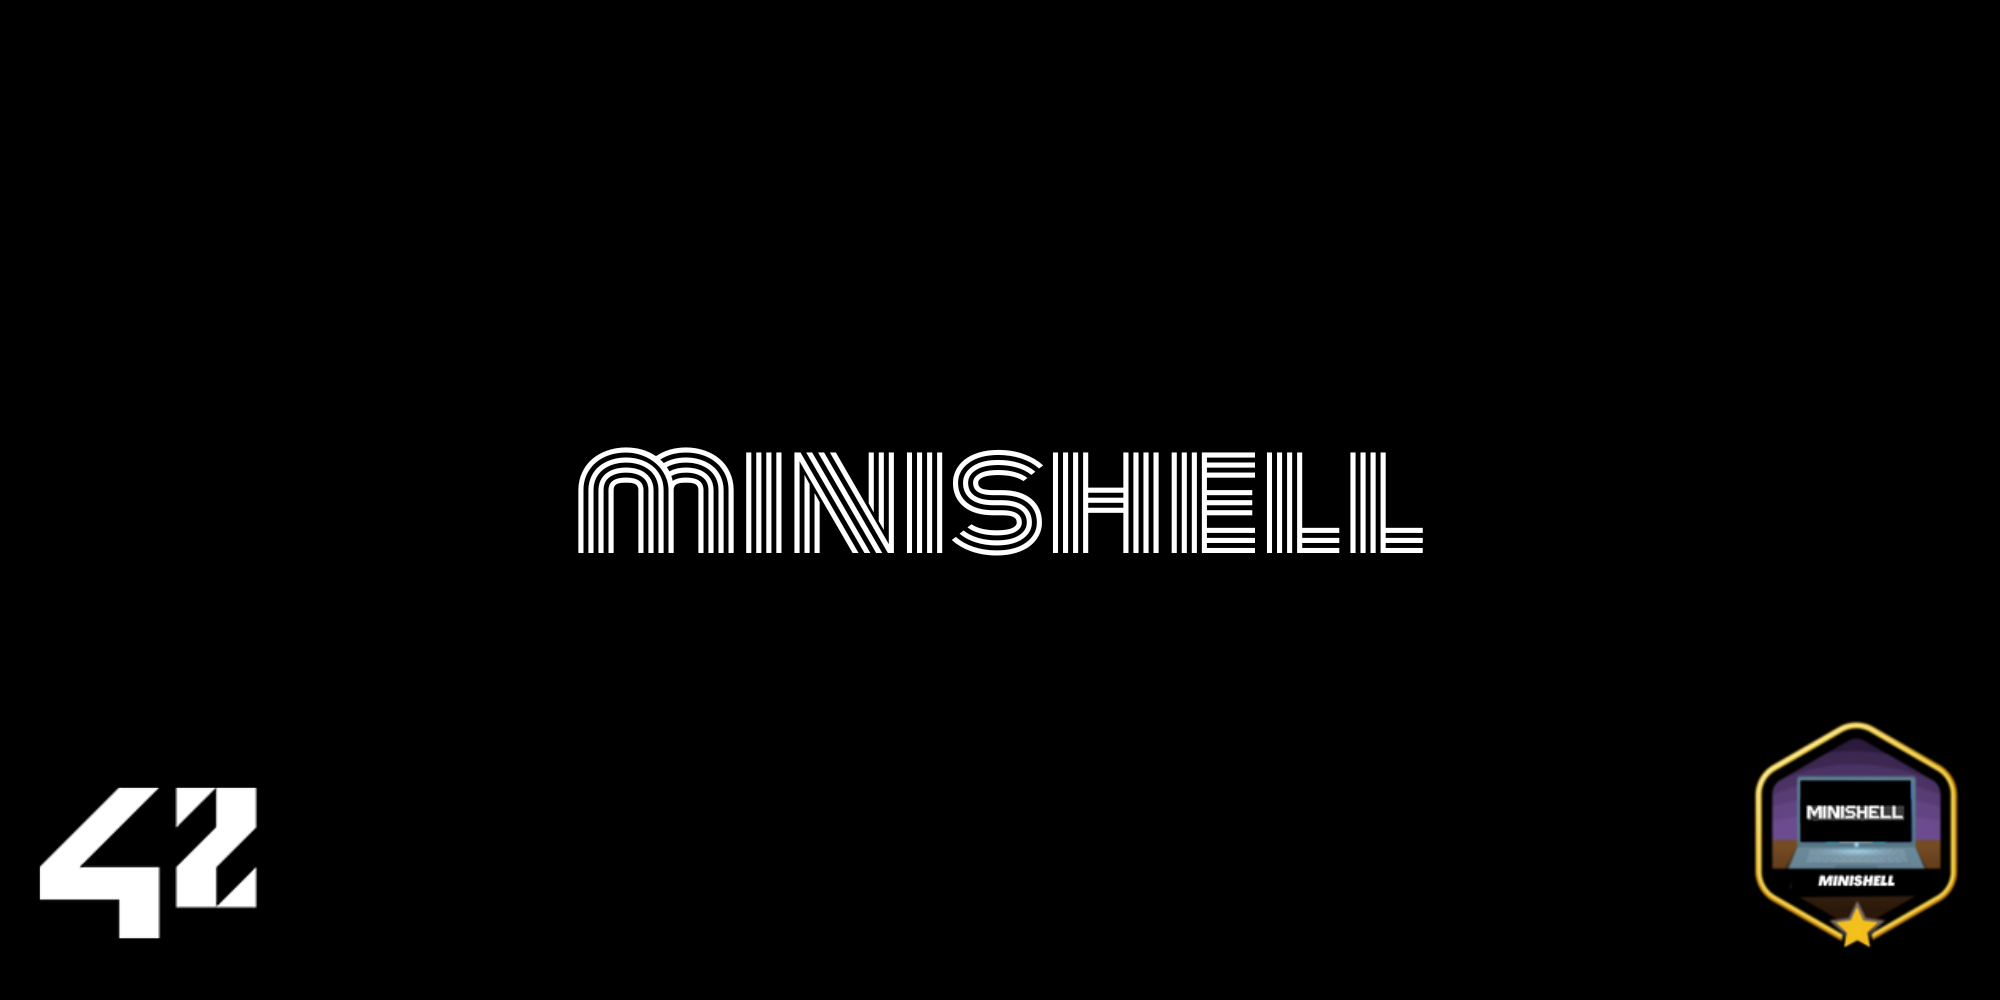
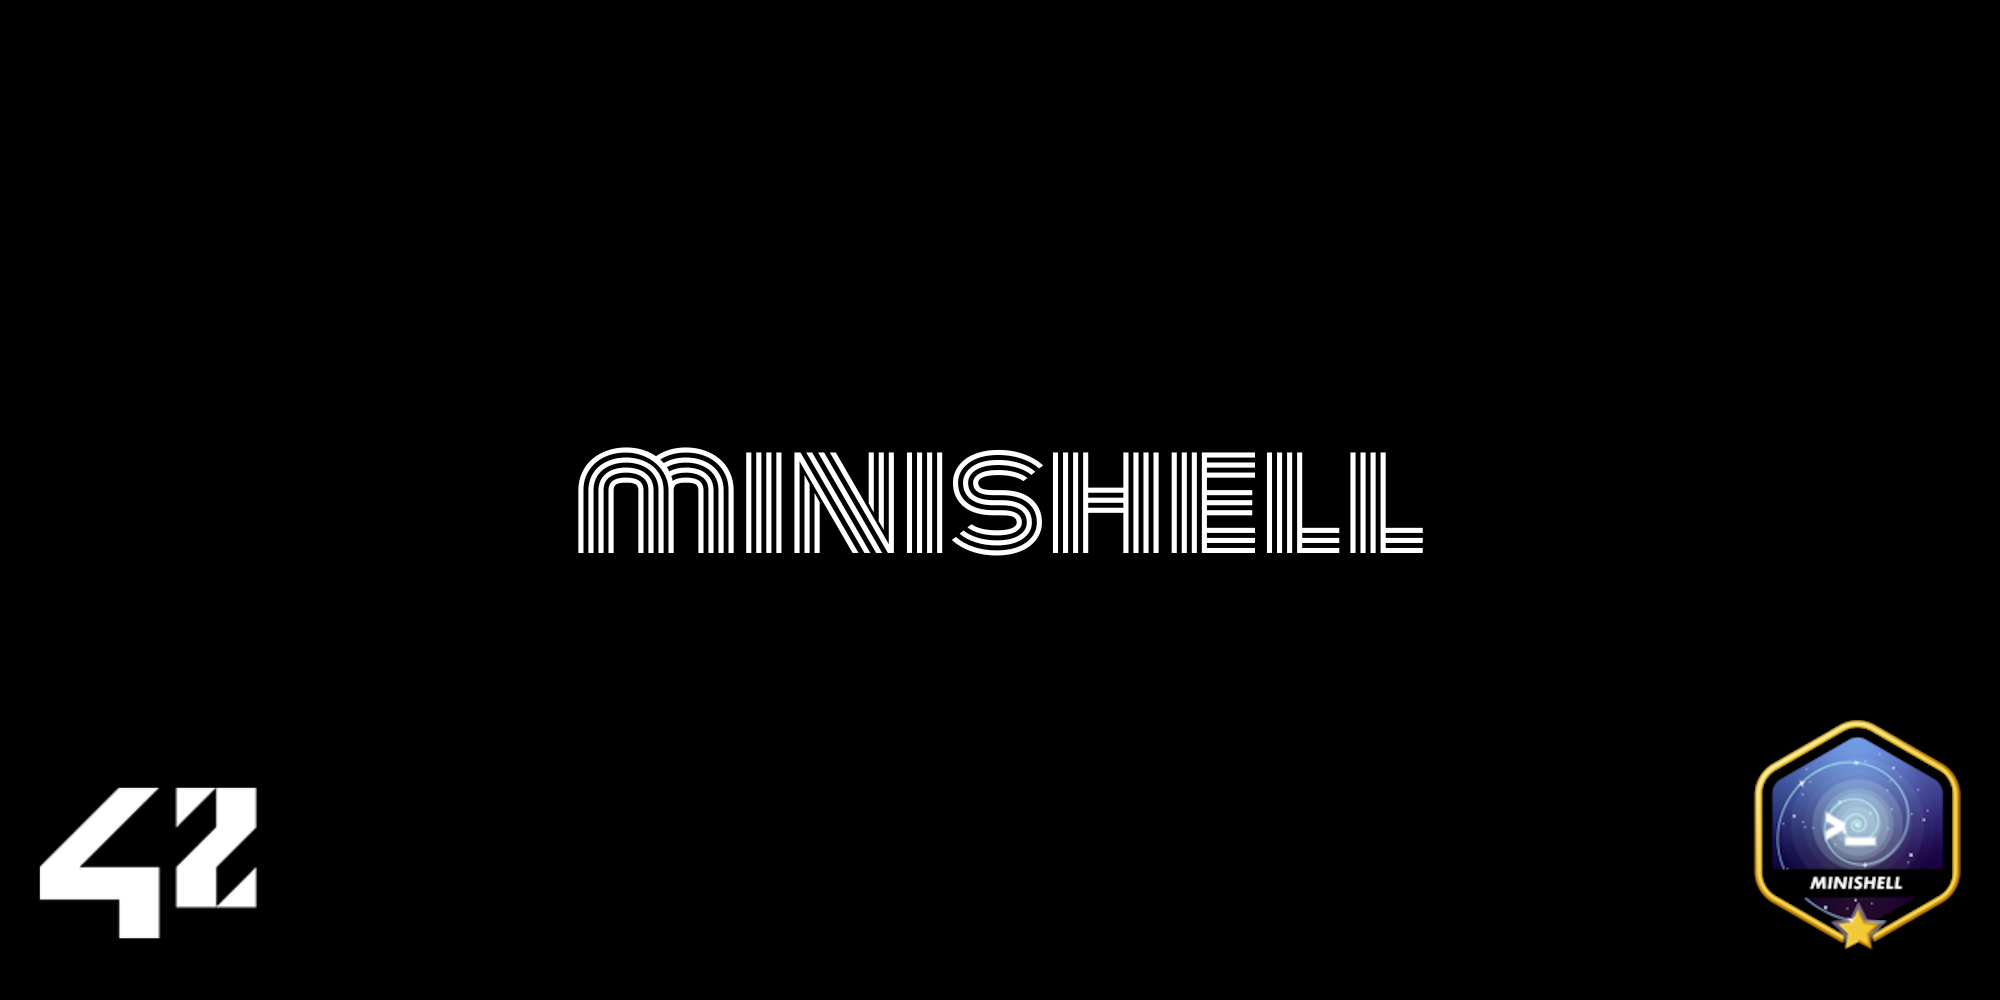
Added missing images

Changed region(s): [[0.868, 0.713, 0.992, 0.961]]

diff --git a/README.md b/README.md
@@ -89,16 +89,16 @@ A cover page design for your projects da 42 School.
 | Project       |            Cover Pages             |                           With Bonus                           |
 | :------------ | :--------------------------------: | :------------------------------------------------------------: |
 | libft         | ![libft](./covers/cover-libft.png) |         ![libft-bonus](./covers/cover-libft-bonus.png)         |
-| get_next_line |                                    | ![get_next_line-bonus](./covers/cover-get_next_line-bonus.png) |
-| ft_printf     |                                    |     ![ft_printf-bonus](./covers/cover-ft_printf-bonus.png)     |
-| born2beroot   |                                    |   ![born2beroot-bonus](./covers/cover-born2beroot-bonus.png)   |
-| push_swap     |                                    |     ![push_swap-bonus](./covers/cover-push_swap-bonus.png)     |
-| so_long       |                                    |       ![so_long-bonus](./covers/cover-so_long-bonus.png)       |
-| minitalk      |                                    |      ![minitalk-bonus](./covers/cover-minitalk-bonus.png)      |
-| philosophers  |                                    |  ![philosophers-bonus](./covers/cover-philosophers-bonus.png)  |
-| minishell     |                                    |     ![minishell-bonus](./covers/cover-minishell-bonus.png)     |
-| netpractice   |                                    |  ![net_practice-bonus](./covers/cover-net_practice-bonus.png)  |
-| cub3d         |                                    |         ![cub3d-bonus](./covers/cover-cub3d-bonus.png)         |
+| get_next_line | ![get_next_line](./covers/cover-get_next_line.png) | ![get_next_line-bonus](./covers/cover-get_next_line-bonus.png) |
+| ft_printf     | ![ft_printf](./covers/cover-ft_printf.png) | ![ft_printf-bonus](./covers/cover-ft_printf-bonus.png)     |
+| born2beroot   | ![born2beroot](./covers/cover-born2beroot.png) | ![born2beroot-bonus](./covers/cover-born2beroot-bonus.png)   |
+| push_swap     | ![push_swap](./covers/cover-push_swap.png) | ![push_swap-bonus](./covers/cover-push_swap-bonus.png)     |
+| so_long       | ![so_long](./covers/cover-so_long.png) | ![so_long-bonus](./covers/cover-so_long-bonus.png)       |
+| minitalk      | ![minitalk](./covers/cover-minitalk.png) | ![minitalk-bonus](./covers/cover-minitalk-bonus.png)      |
+| philosophers  | ![philosophers](./covers/cover-philosophers.png) | ![philosophers-bonus](./covers/cover-philosophers-bonus.png)  |
+| minishell     | ![minishell](./covers/cover-minishell.png) | ![minishell-bonus](./covers/cover-minishell-bonus.png)     |
+| netpractice   | ![net_practice](./covers/cover-net_practice.png) | ![net_practice-bonus](./covers/cover-net_practice-bonus.png)  |
+| cub3d         | ![cub3d](./covers/cover-cub3d.png) | ![cub3d-bonus](./covers/cover-cub3d-bonus.png)         |
 
 
 ## 📋 Issues
